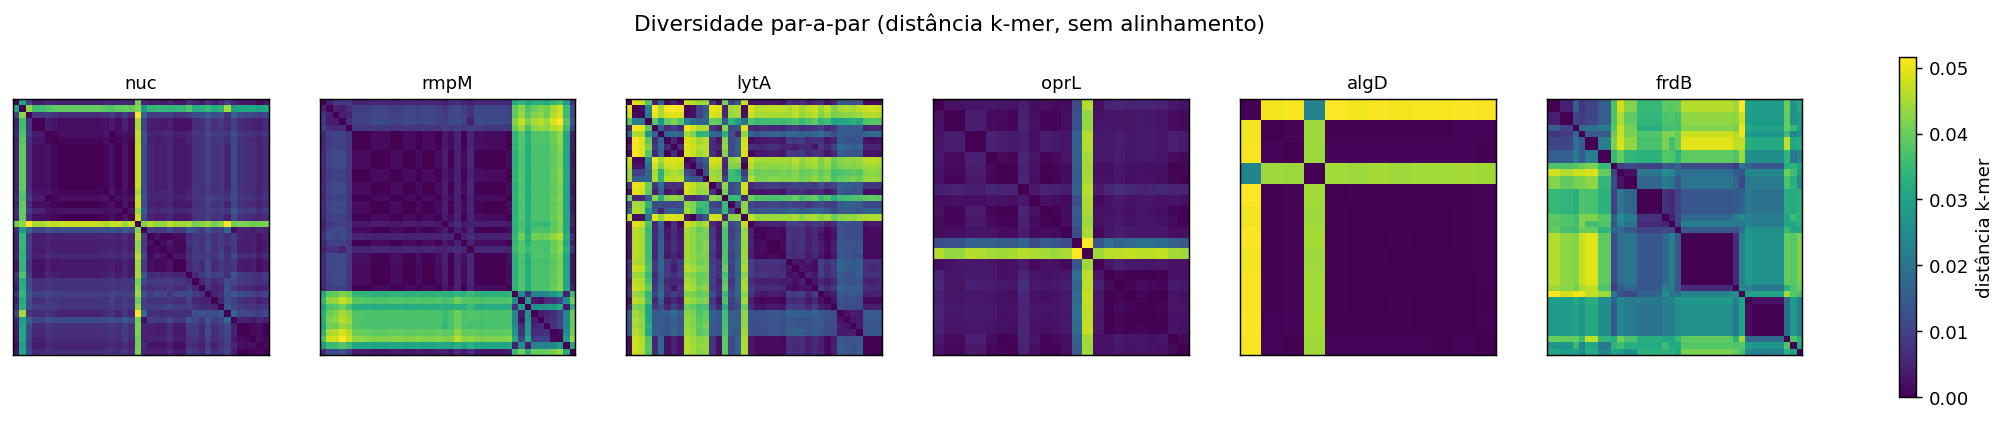
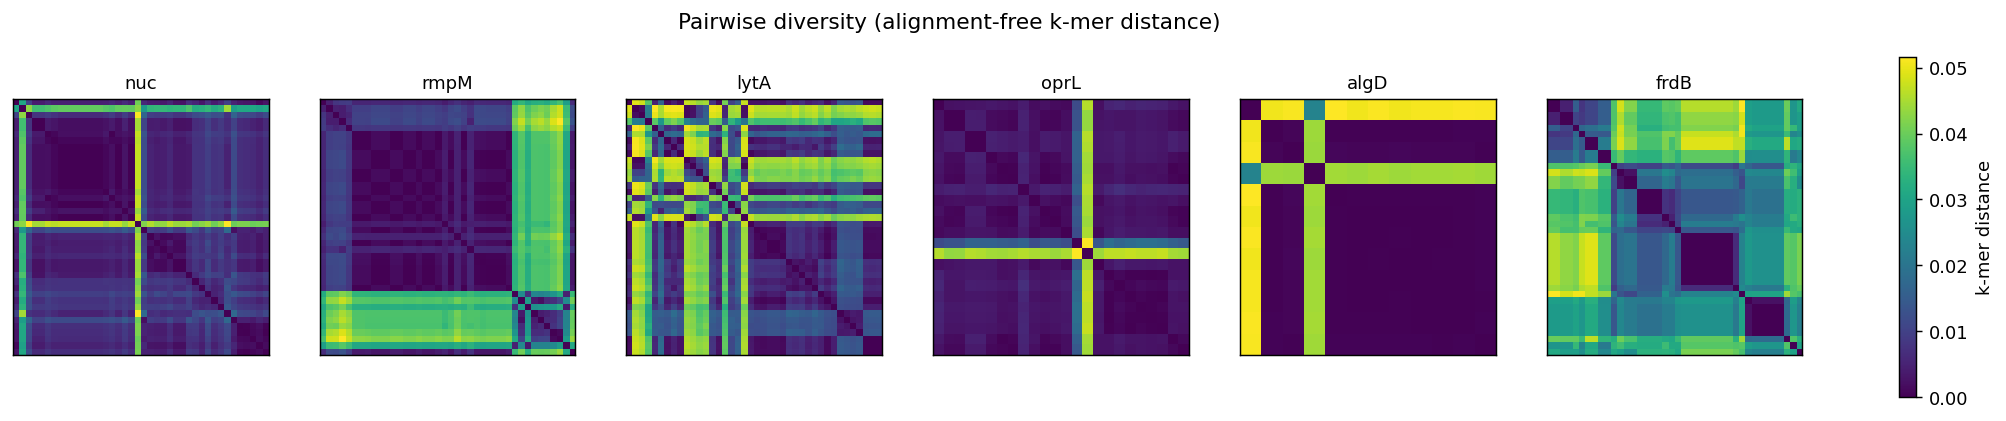
Drop the rmpM threshold overrides; label the analysis figures in English
Each per-gene override was checked against the retrieved sequences. Those of
nuc and frdB (AT-rich: 35.5% and 39.2% GC), oprL and algD (GC-rich: 63.5% and
64.6% GC), algD (19 records) and lytA (the most diverse gene) are borne out by
the data. The two rmpM thresholds are not: the GC ceiling of 65% was set for a
gene whose sequences have 52.2% GC, and the relaxed conservation of 0.80 was
justified by "few homologues" while 100 records are retrieved. rmpM and the
N. meningitidis profile now use the global defaults.

Effect in 1x PBS: 7661 candidate windows, 2439 pass all filters; the
5th-percentile seqfold threshold stays at -2.1 kcal/mol; one probe of the
top-5 changes (rmpM) and one of the top-25. Probe numbers after rmpM shift,
because fewer rmpM windows are generated.

The titles, axis labels and legends drawn by scripts/analysis.py are now in
English, the language of the dissertation, and the thesis figures are
regenerated from it.

diff --git a/scripts/analysis.py b/scripts/analysis.py
@@ -113,9 +113,9 @@ def analyze_seqfold(df: pd.DataFrame):
     fig, axes = plt.subplots(1, 2, figsize=(12, 4.2))
     axes[0].hist(dgp, bins=40, color="#2E75B6", edgecolor="white")
     axes[0].axvline(SEQFOLD_DEFAULT, color="red", ls="--",
-                    label=f"limiar atual {SEQFOLD_DEFAULT}")
-    axes[0].set(title="Distribuição ΔG MFE (todas as probes pass_basic)",
-                xlabel="ΔG (kcal/mol)", ylabel="nº de probes")
+                    label=f"threshold {SEQFOLD_DEFAULT} kcal/mol")
+    axes[0].set(title="MFE of the probes passing the basic screen",
+                xlabel="ΔG (kcal/mol)", ylabel="number of probes")
     axes[0].legend()
     for g in GENES:
         gd = pop[pop["gene"] == g]["seqfold_dg"].to_numpy()
@@ -123,7 +123,7 @@ def analyze_seqfold(df: pd.DataFrame):
         if gd.size > 5:
             axes[1].hist(gd, bins=25, histtype="step", lw=1.6, label=f"{g} (n={gd.size})")
     axes[1].axvline(SEQFOLD_DEFAULT, color="red", ls="--")
-    axes[1].set(title="ΔG MFE por gene", xlabel="ΔG (kcal/mol)", ylabel="nº de probes")
+    axes[1].set(title="MFE per gene", xlabel="ΔG (kcal/mol)", ylabel="number of probes")
     axes[1].legend(fontsize=8)
     fig.tight_layout(); fig.savefig(FIGDIR / "seqfold_hist.png", dpi=130); plt.close(fig)
 
@@ -133,14 +133,14 @@ def analyze_seqfold(df: pd.DataFrame):
     fig, ax = plt.subplots(figsize=(8, 4.6))
     ax.plot(grid, frac_pass * 100, color="#1F3864", lw=2)
     ax.axvline(SEQFOLD_DEFAULT, color="red", ls="--",
-               label=f"limiar atual {SEQFOLD_DEFAULT} → {(dg>=SEQFOLD_DEFAULT).mean()*100:.1f}% passam")
+               label=f"threshold {SEQFOLD_DEFAULT} kcal/mol → {(dg>=SEQFOLD_DEFAULT).mean()*100:.1f}% pass")
     for p in (5, 10, 25):
         v = np.percentile(dgp, p)
         ax.axvline(v, color="grey", ls=":", lw=0.9)
         ax.text(v, 5, f"P{p}", rotation=90, fontsize=7, color="grey", va="bottom")
-    ax.set(title="Curva cumulativa de aprovação seqfold (% que passa para cada limiar)",
-           xlabel="limiar de ΔG (kcal/mol)  — probe passa se ΔG ≥ limiar",
-           ylabel="% de probes que passam")
+    ax.set(title="Pass rate of the secondary-structure screen by threshold",
+           xlabel="ΔG threshold (kcal/mol); a probe passes if ΔG ≥ threshold",
+           ylabel="probes passing (%)")
     ax.legend(); ax.grid(alpha=0.3)
     fig.tight_layout(); fig.savefig(FIGDIR / "seqfold_cumulative_pass.png", dpi=130); plt.close(fig)
 
@@ -184,7 +184,7 @@ def analyze_sizes(df: pd.DataFrame):
         lens = np.array([len(s) for s in seqs])
         n = len(lens)
         if n == 0:
-            ax.set_title(f"{g} — sem sequências"); ax.axis("off")
+            ax.set_title(f"{g}: no sequences"); ax.axis("off")
             rows.append({"gene": g, "n_seqs": 0}); continue
         sw_p = float(stats.shapiro(lens).pvalue) if 3 <= n <= 5000 and lens.std() > 0 else float("nan")
         normal = (sw_p >= 0.05) if not math.isnan(sw_p) else None
@@ -197,8 +197,8 @@ def analyze_sizes(df: pd.DataFrame):
                      "normal_p<0.05": ("sim" if normal else "não") if normal is not None else "n/a"})
         ax.hist(lens, bins=min(30, max(5, n // 3)), color="#70AD47", edgecolor="white")
         ax.set_title(f"{g}  (n={n}, μ={lens.mean():.0f}±{lens.std():.0f})", fontsize=10)
-        ax.set_xlabel("comprimento (bp)")
-    fig.suptitle("Distribuição do tamanho das sequências NCBI recuperadas por gene")
+        ax.set_xlabel("length (bp)")
+    fig.suptitle("Length of the NCBI sequences retrieved per gene")
     fig.tight_layout(); fig.savefig(FIGDIR / "sizes_per_gene.png", dpi=130); plt.close(fig)
 
     pd.DataFrame(rows).to_csv(ANADIR / "per_gene_sizes.csv", index=False)
@@ -217,10 +217,10 @@ def analyze_sizes(df: pd.DataFrame):
         lens = np.array([len(s) for s in gene_input_seqs(g)])
         if lens.size >= 3 and lens.std() > 0:
             stats.probplot(lens, dist="norm", plot=ax)
-            ax.set_title(f"QQ — {g}", fontsize=10)
+            ax.set_title(f"Q–Q plot: {g}", fontsize=10)
         else:
-            ax.set_title(f"{g} — n/a"); ax.axis("off")
-    fig.suptitle("QQ-plots (normalidade do tamanho das sequências por gene)")
+            ax.set_title(f"{g}: n/a"); ax.axis("off")
+    fig.suptitle("Q–Q plots of sequence length per gene (normality)")
     fig.tight_layout(); fig.savefig(FIGDIR / "sizes_qqplots.png", dpi=130); plt.close(fig)
 
     # Comprimento das probes (próprias)
@@ -232,7 +232,7 @@ def analyze_sizes(df: pd.DataFrame):
         fig, ax = plt.subplots(figsize=(6, 4))
         ax.hist(plen, bins=range(int(plen.min()), int(plen.max()) + 2),
                 color="#2E75B6", edgecolor="white", align="left")
-        ax.set(title="Comprimento das probes (nt)", xlabel="nt", ylabel="nº de probes")
+        ax.set(title="Probe length", xlabel="length (nt)", ylabel="number of probes")
         fig.tight_layout(); fig.savefig(FIGDIR / "probe_length.png", dpi=130); plt.close(fig)
 
 # ── 3. diversidade sem alinhamento (k-mer) ──────────────────────────────────────
@@ -291,8 +291,8 @@ def analyze_diversity(df: pd.DataFrame):
                 D = D[np.ix_(sel, sel)]
             im = ax.imshow(D, cmap="viridis", vmin=0)
             ax.set_title(f"{g}", fontsize=10); ax.set_xticks([]); ax.set_yticks([])
-        fig.colorbar(im, ax=axes, fraction=0.025, label="distância k-mer")
-        fig.suptitle("Diversidade par-a-par (distância k-mer, sem alinhamento)")
+        fig.colorbar(im, ax=axes, fraction=0.025, label="k-mer distance")
+        fig.suptitle("Pairwise diversity (alignment-free k-mer distance)")
         fig.savefig(FIGDIR / "diversity_heatmaps.png", dpi=130, bbox_inches="tight"); plt.close(fig)
 
 # ── 4. rarefação → justificar N ─────────────────────────────────────────────────
@@ -330,8 +330,8 @@ def analyze_rarefaction(df: pd.DataFrame):
         rich_max = richs[-1]
         sat_n = next((m for m, r in zip(sched, richs) if rich_max and r >= 0.95 * rich_max), sched[-1])
         sat_rows.append((g, n, sat_n))
-    axes[0].set(title="Diversidade k-mer média vs N", xlabel="nº de sequências", ylabel="diversidade média")
-    axes[1].set(title="Riqueza (k-mers distintos) vs N", xlabel="nº de sequências", ylabel="k-mers distintos")
+    axes[0].set(title="Mean k-mer diversity", xlabel="number of sequences", ylabel="mean diversity")
+    axes[1].set(title="Richness (distinct k-mers)", xlabel="number of sequences", ylabel="distinct k-mers")
     for ax in axes:
         ax.legend(fontsize=8); ax.grid(alpha=0.3)
     fig.tight_layout(); fig.savefig(FIGDIR / "rarefaction.png", dpi=130); plt.close(fig)

diff --git a/pipeline.py b/pipeline.py
@@ -74,8 +74,6 @@ TARGETS = {
         "ncbi_query_fallback": '"Neisseria meningitidis"[Organism] AND "outer membrane protein"[Title] AND 100:1200[Sequence Length]',
         "refseq_fallback": "NC_003112",
         "min_len": 100, "max_len": 1200,
-        "gc_max": 0.65,           # IDT OligoAnalyzer guidelines
-        "cons_min": 0.80,         # poucos homólogos NCBI
         "allow_single_seq": True,
     },
     "lytA": {
@@ -166,7 +164,7 @@ SPECIES_PARAMS = {
                                  "_refs": ["H. influenzae AT-rico — IDT"]},
     "Pseudomonas aeruginosa":   {"type": "bacteria", "gc_max": 0.70,
                                  "_refs": ["P. aeruginosa ~67% GC — Stover et al. 2000"]},
-    "Neisseria meningitidis":   {"type": "bacteria", "gc_max": 0.65},
+    "Neisseria meningitidis":   {"type": "bacteria"},
     "Streptococcus pneumoniae": {"type": "bacteria"},
     "Klebsiella pneumoniae":    {"type": "bacteria", "gc_max": 0.65, "_refs": ["K. pneumoniae ~57% GC"]},
     "H1N1":      {"type": "virus", "gc_min": 0.35, "gc_max": 0.52, "_refs": ["Influenza A ~43% GC"]},
